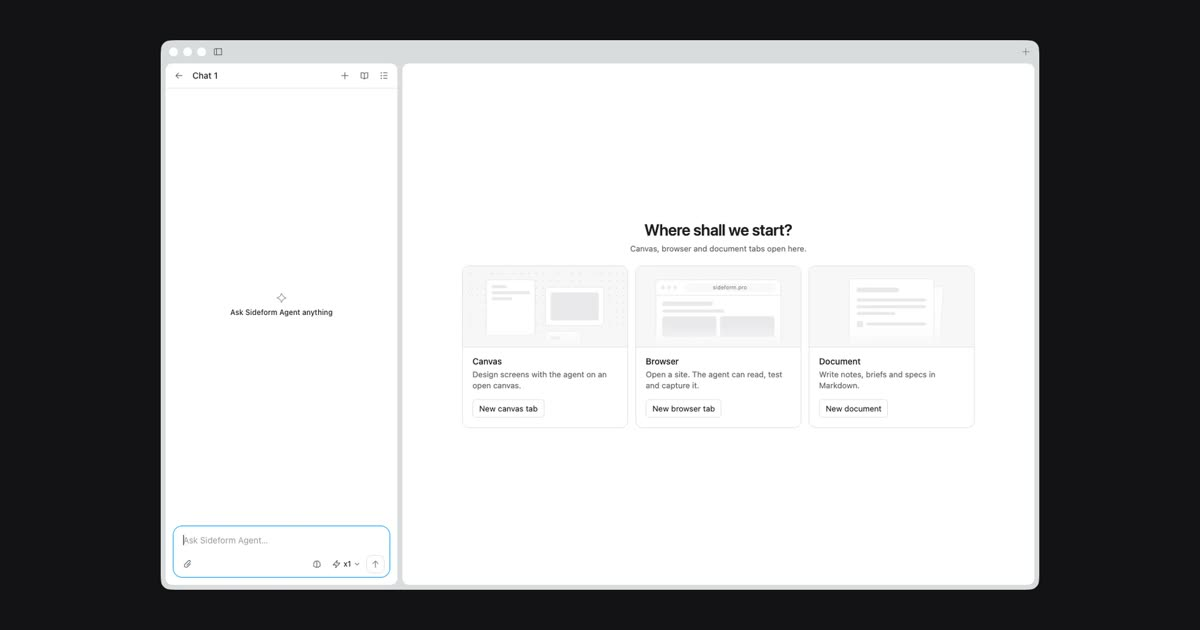
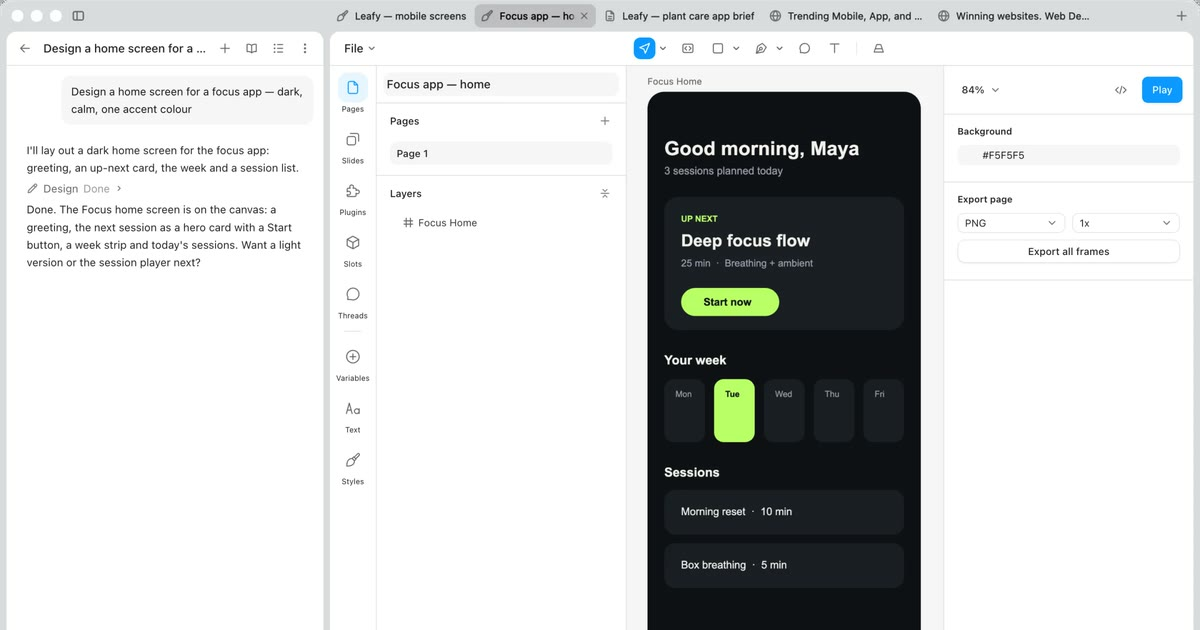
feat(post): rewrite Sideform Desktop — shorter, case-style, real screenshots

diff --git a/content/posts/sideform-desktop.md b/content/posts/sideform-desktop.md
@@ -4,10 +4,10 @@ dek: A macOS app that puts an AI design agent next to your canvas, a real browse
 date: 2026-10-31
 category: design-engineering
 tldr:
-  - Sideform is an AI design editor. Sideform Desktop is its macOS app — a chat agent on the left, canvas, browser and document tabs on the right.
-  - I designed and built the desktop app, from the first sketch on 18 July 2026 to version 0.9.4 on 27 October — 257 commits, most of them co-written with Claude.
-  - It lets the agent do what a web page can't — browse the web with your logins, work inside other Mac apps, and keep canvases, documents and chats on disk.
-  - Built with Electron and TypeScript, plus a small Swift helper for controlling other macOS apps.
+  - Sideform is an AI design editor. I designed and built its macOS app — the agent docked on the left, canvas, browser and document tabs on the right.
+  - I took it from the first spec on 18 July 2026 to v0.9.4 on 27 October — 257 commits, 201 of them co-written with Claude.
+  - It gives the agent what a browser tab can't — the web with your logins, other Mac apps with your permission, and your work saved on disk.
+  - Electron and TypeScript, with a small Swift helper for macOS app control.
 stack:
   - Electron
   - TypeScript
@@ -21,51 +21,116 @@ cover: /images/writing/sideform-desktop/cover.webp
 ogImage: /images/writing/sideform-desktop/og.jpg
 ---
 
-## Why a desktop app
+## Challenge
 
-Sideform started as a design editor in the browser, with an AI agent that draws on the canvas for you. A browser tab sets limits on that agent. It can't open other websites with your accounts, it can't look at other apps, and your work lives in the tab's storage.
+:::logline
+Sideform's agent designs on a canvas — but inside a browser tab it was boxed in.
+:::
 
-The desktop app removes those limits. It wraps the same editor, so every improvement to the web version shows up in the app too, and adds what only a native app can do.
+It couldn't browse with the user's logins, couldn't look at other apps, and kept work in the tab's storage. I wanted to give the agent a real desktop to work in.
 
-## The agent sits beside your work
+## Solution
 
-The window has two parts. On the left is the agent chat. On the right are tabs: canvases, web pages and Markdown documents. You talk to the agent on the left and watch it work on the right.
+:::logline
+I designed one window: the agent on the left, canvas, browser and document tabs on the right.
+:::
 
-- An empty window asks "Where shall we start?" and offers three cards: a new canvas, a new browser tab or a new document. Below them is a list of recent canvases and documents, newest first.
-- Tabs can be dragged to a new order. Cmd+T opens a canvas. The chat panel hides and shows again with one button or Cmd+Option+B, and slides out of the way instead of jumping (it stays still if you turned on Reduce Motion in macOS).
-- Native menus and shortcuts: open, export, Settings (Cmd+,), Reveal in Finder.
-- On macOS the tab bar is translucent glass, and the app follows the editor's light or dark theme.
+![Start window: agent panel, start cards and Recent list](/images/writing/sideform-desktop/start-window.webp "full")
 
-## A browser the agent can use
+![Start cards: Canvas, Browser, Document](/images/writing/sideform-desktop/start-cards.webp)
 
-A design agent needs references. The built-in browser lets it find them on the open web — Pinterest, for example — with your own logged-in session.
+An empty window offers a canvas, a site or a brief in one click. I kept the same web editor inside, so every web release lands on the desktop for free.
 
-- Ads and trackers are blocked by default.
-- History works like in any browser: the address bar suggests pages you visited, and a History tab lists them.
-- You can save logins. The agent can sign in to a site with them, and the password never reaches the AI model.
-- While the agent drives a tab, that tab shows the agent's cursor, so you always see where it is working.
-- For testing, the agent can run several checks at once, each in its own private browser with separate cookies and accounts.
-- Each browsing run is saved as a trace. You open it in a tab and step through what the agent saw and did.
+## Agent
 
-## Beyond the browser: other apps on your Mac
+:::logline
+You talk on the left and watch the agent work on the right.
+:::
 
-The agent can also work inside other apps that are already open on your Mac — native apps and Electron apps — without restarting them. It reads the window, clicks, types and scrolls, and draws its cursor over the app so you can follow it.
+![Agent panel: a prompt, a reply and a finished Design step](/images/writing/sideform-desktop/agent-panel.webp)
 
-You stay in control. Before the agent uses another app, Sideform asks you in a native dialog — you can allow it once or until you quit. Password managers are always blocked. macOS asks for Accessibility permission, and Screen Recording only if the agent needs screenshots.
+I docked the agent beside every tab and made it hide with Cmd+Option+B, so the canvas gets full width when you need it. It slides away instead of jumping, and respects Reduce Motion.
 
-## Your work stays on disk
+![Chat composer](/images/writing/sideform-desktop/agent-composer.webp)
 
-Canvases, documents and agent chats are saved as files on your computer. Closing a tab or quitting the app doesn't lose anything: on quit, the app waits for unsaved work to finish writing first.
+## Tabs
 
-- Reopen any canvas or document from the Recent list.
-- Right-click a tab or a Recent item to show its file in Finder.
-- Save a document as a PDF.
-- Sign in through your usual browser, so you stay signed in.
+:::logline
+Canvas, web, history and logins live in one tab strip.
+:::
 
-## Works with Claude Code and Cursor
+:::slider
+### Canvas
+Design screens with the agent, with pages, layers and export.
+![Canvas tab with a focus app home screen](/images/writing/sideform-desktop/tab-canvas.webp)
 
-The app also runs a local MCP server. Install the app and the Sideform agent plugin, and a coding agent like Claude Code or Cursor can read and edit the document you have open — 37 tools, with no setup and no token to copy. It works only on your computer, and letting outside agents control the built-in browser is off until you turn it on in Settings.
+### Browser
+The agent finds references on the open web with your own session. Ads and trackers are blocked by default.
+![Built-in browser tab](/images/writing/sideform-desktop/tab-browser.webp)
 
-## How it's built
+### History
+Visited pages, grouped by day and searchable.
+![History tab](/images/writing/sideform-desktop/tab-history.webp)
 
-An Electron shell around the deployed web editor, with the AI agent running on Sideform's server. A small Swift helper does the macOS app control. Unit tests run on Vitest and end-to-end tests on Playwright, plus a separate test that runs the app against the live editor and agent.
+### Passwords
+Saved logins let the agent sign in to a site, and the password never reaches the AI model.
+![Passwords tab with demo logins](/images/writing/sideform-desktop/tab-passwords.webp)
+:::
+
+## Browser
+
+:::logline
+A browser built for an agent, not only for a person.
+:::
+
+![Address bar suggestions from history](/images/writing/sideform-desktop/address-suggestions.webp)
+
+The address bar suggests pages you visited. A tab the agent drives shows its cursor, and a run can be saved as a trace to step through.
+
+## Control
+
+:::logline
+The agent can work in other Mac apps — only after you allow it.
+:::
+
+Sideform asks first in a native dialog: allow once or until you quit. Password managers are always blocked.
+
+![Browser settings: traces, ad blocking, MCP browser control](/images/writing/sideform-desktop/settings-browser.webp)
+
+I kept risky switches off by default, so outside agents can't drive the browser until you allow it.
+
+## Craft
+
+:::logline
+It feels like a Mac app, in light and in dark.
+:::
+
+![Dark theme](/images/writing/sideform-desktop/dark-theme.webp "full")
+
+The tab bar is translucent glass and follows the editor's theme. Native menus cover open, export, Settings and Reveal in Finder.
+
+## On disk
+
+:::logline
+Canvases, documents and chats are files on your Mac.
+:::
+
+![Recent list](/images/writing/sideform-desktop/recent-list.webp)
+
+Quitting loses nothing: the app waits for unsaved work to finish writing. Any file reopens from Recent.
+
+## For coding agents
+
+:::logline
+Claude Code and Cursor can edit the open canvas too.
+:::
+
+The app runs a local MCP server with 37 tools. Install the Sideform agent plugin and it works with no setup and no token to copy.
+
+:::outcomes
+- 257 — commits from 18 Jul to 27 Oct 2026
+- v0.9.4 — shipped 14 weeks after the first spec
+- 37 — MCP tools for coding agents
+- 201 — commits co-written with Claude
+I owned the desktop app end to end, from the window design to the macOS layer, unit and end-to-end tests.
+:::
